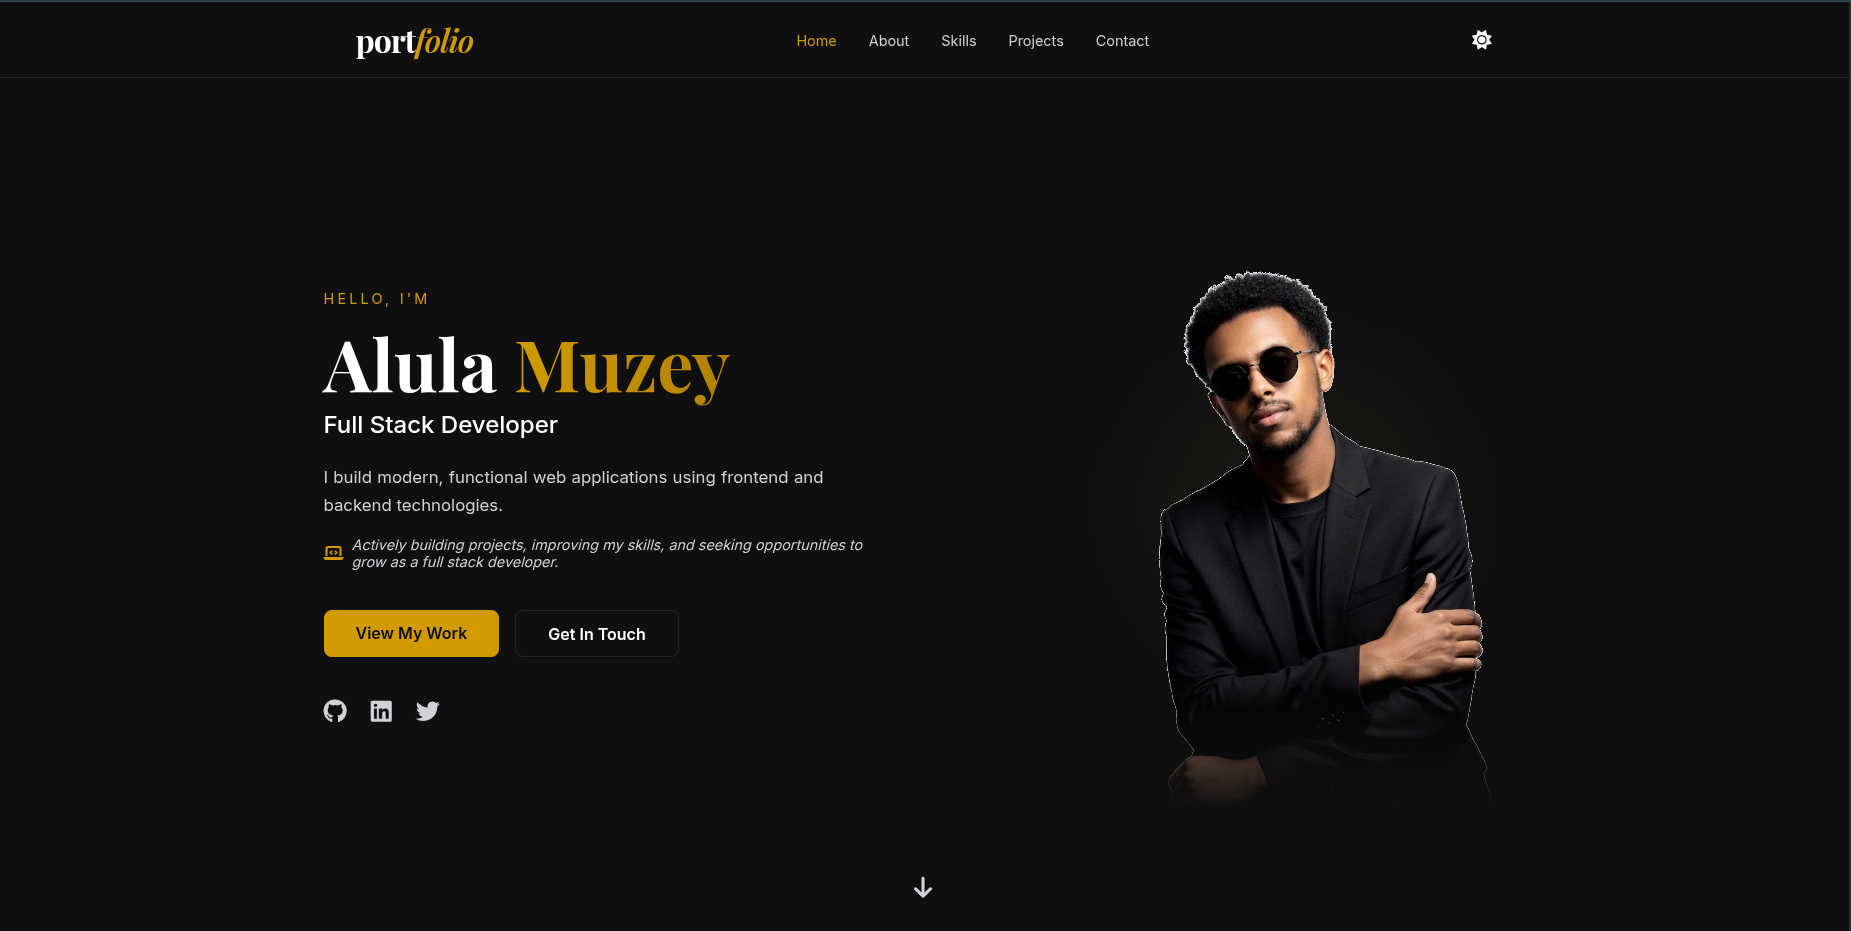
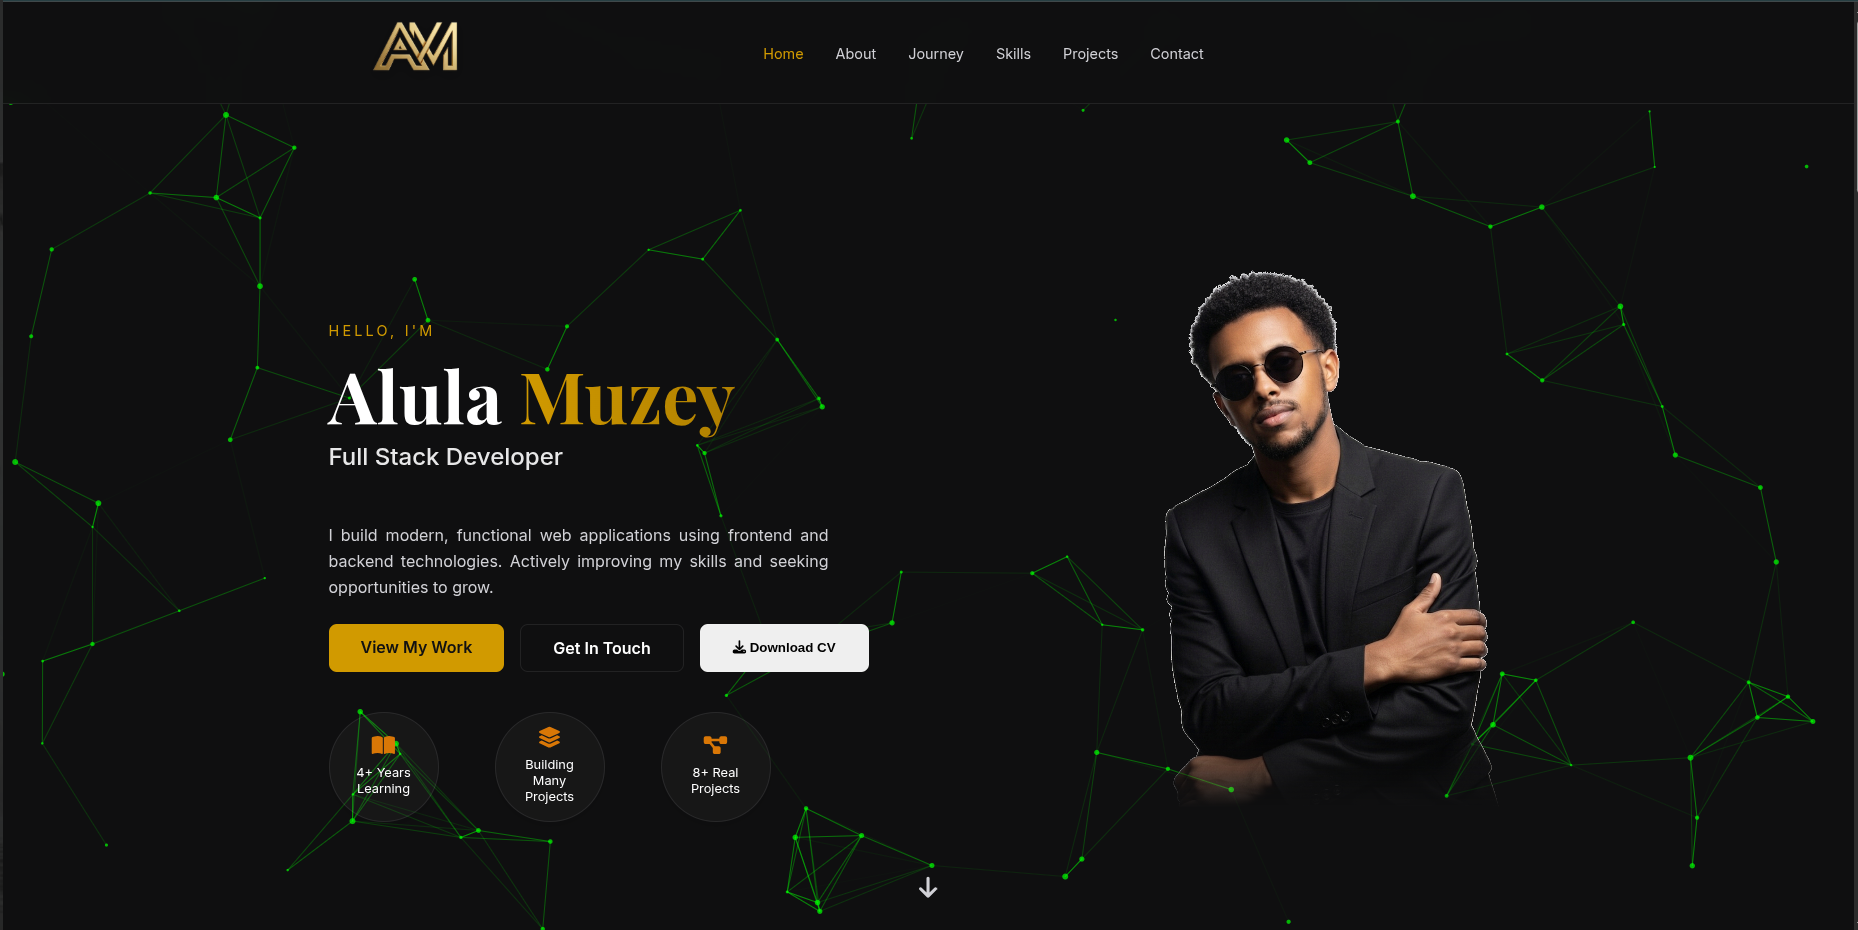
editing some texts

diff --git a/README.md b/README.md
@@ -4,7 +4,10 @@ A sleek, responsive, and modern personal portfolio website built for Alula Muzey
 
 ## 📸 Preview
 
-![Neon Particle Home View](assets/screenshots/home-particle-preview.png)
+| Hero Section | Feature Section |
+|---|---|
+| ![Hero Dark](assets/screenshots/hero-dark.png) | ![Features](assets/screenshots/features-light.png) |
+| ![Screenshot 1](assets/screenshots/Screenshot%20from%202026-04-13%2021-06-16.png) | ![Screenshot 2](assets/screenshots/Screenshot%20from%202026-04-13%2021-06-23.png) |
 
 ## ✨ Features
 - **Interactive Particle Network:** A dynamic, neon-green particle system that dynamically pushes away from the user cursor using tsParticles.
